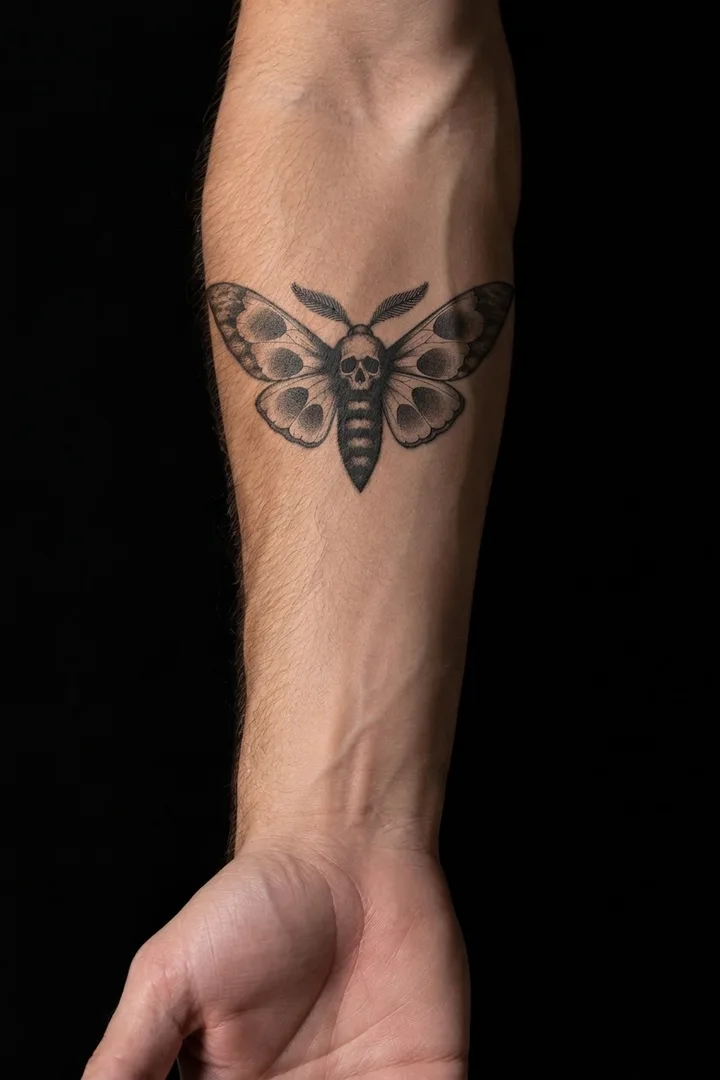
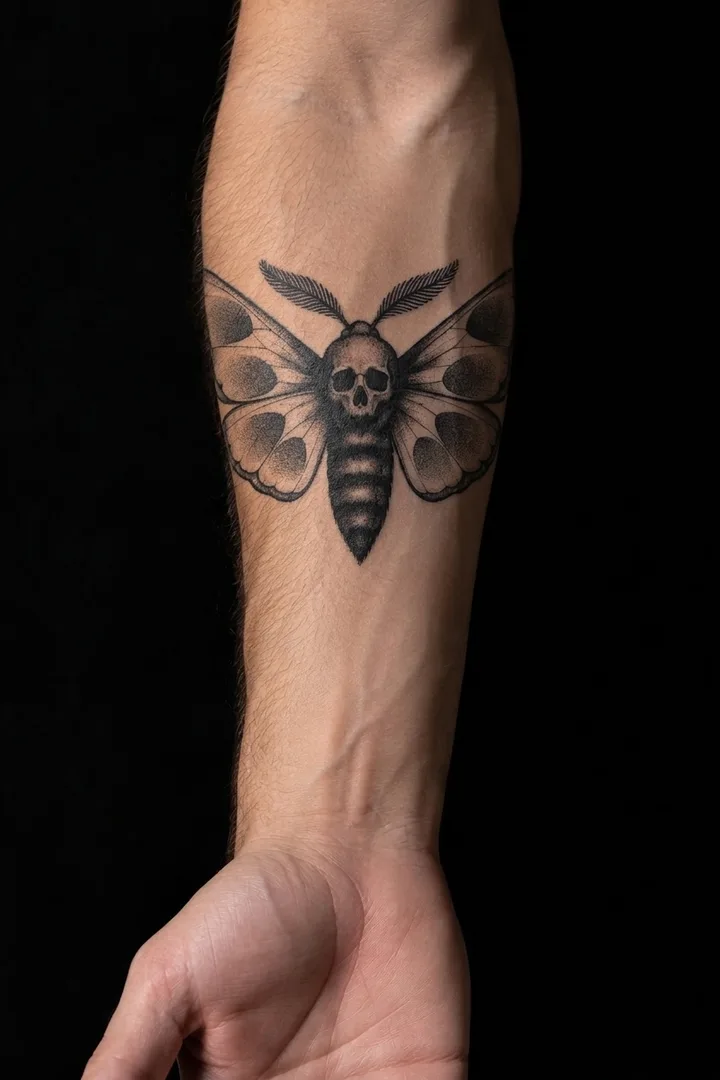
Cómo funciona: la polilla más grande en la piel, con las alas rodeando el brazo

Changed region(s): [[0.275, 0.2444, 0.7028, 0.5194]]

diff --git a/CLAUDE.md b/CLAUDE.md
@@ -55,7 +55,7 @@ Una sola dirección pública: `hello@inkdraft.tattoo`. Los dos emails del formul
 - "Cómo funciona" es un carrusel en un panel (un paso por diapositiva: número gótico grande con el título a su derecha (sin la etiqueta "Paso N de 5", Marc), una frase y un escenario con foco de luz y rayos como el del principio). Arriba, barra de pasos tipo stepper (círculo con número gótico, nombre y tramo que se llena; el actual relleno en hueso) con flechas; deslizar con el dedo (scroll-snap del navegador) y teclado. JS propio al final de cada página, sin librerías. Por debajo de 900 px el texto va encima de la imagen, la barra solo lleva números y el panel de capas va en una fila debajo del stencil (encima lo tapaba). Por debajo de 600 px (móvil, Marc 23 oct: los círculos se amontonaban): arriba solo una barra de progreso fina de 5 tramos, y abajo flechas y contador "3 / 5" al alcance del pulgar; en Afinar las 4 nuevas van en una fila.
 - Cada diapositiva entra animada al verse (`.on` + `.rise` con retardo `--d`); sin JS se ve todo quieto, y con "reducir movimiento" no se mueve. Paso 1: el formulario de la app tal cual (estilo, encargo del cliente, zona del cuerpo, tamaño, chips de Referencias 1/3 y Foto de la zona, botón "Ver 4 conceptos"; mismos colores y bordes que `globals.css` de la app); si cambia el formulario de la app, cambiarlo aquí. El encargo y la instrucción de Afinar se escriben solos. Conceptos: abanico, el elegido se levanta y los demás se apagan. Stencil: el stencil barre sobre el diseño (sigue al ratón en el Mac) y al lado un panel de capas como el de Procreate. En la piel: dentro de un móvil, con la notificación de Laura ("¡Esa! ¿Cuándo tienes hueco?"), que cierra la historia del mensaje directo del principio. Sin pie de foto de "antebrazo generado con IA" (Marc lo quitó el 23 oct).
 - Pasos (encargo real de Marc, 23 oct, todo de su biblioteca: "polilla con calavera", Blackwork, antebrazo 12 cm): 1 Encargo (el formulario) → 2 Conceptos (`af-c1..4`, elegido el 3, "Tórax de calavera") → 3 Afinar (instrucción real "Las alas que tengan menos negro" → `af-a1..4`, elegido el 1, "Alas claras, tórax calavera") → 4 Stencil (`af-diseno` + `af-stencil`, el dibujo mide 12 × 8,1 cm) → 5 En la piel (`af-piel`). Originales en `~/Claude/inkdraft-banco-estilos/landing-2026-10-23/afinado-polilla-12cm/`.
-- En la piel: `af-piel.webp`, el diseño `af-a1` colocado sobre el antebrazo de muestra (como en la app: tinta con multiplicar) y pasado por `/api/skin` de la app desde Chrome con la cuenta de Marc (23 oct). Originales en `.../afinado-polilla-12cm/`. Las `pol-*` ya no existen.
+- En la piel: `af-piel.webp`, el diseño `af-a1` grande sobre el antebrazo de muestra, con las alas rodeando el brazo (Marc), (como en la app: tinta con multiplicar) y pasado por `/api/skin` de la app desde Chrome con la cuenta de Marc (23 oct). Originales en `.../afinado-polilla-12cm/`. Las `pol-*` ya no existen.
 - Carrusel en el Mac: sin pantalla táctil, `.slides` va con `overflow-x: hidden` y solo un gesto claramente lateral del trackpad pasa de diapositiva (uno por gesto); el scroll vertical ya no lo mueve. En iPad y móvil se desliza con el dedo como siempre.
 - FAQ, `featureList` y `llms.txt` ya hablan de afinar en vez de variaciones.
 
